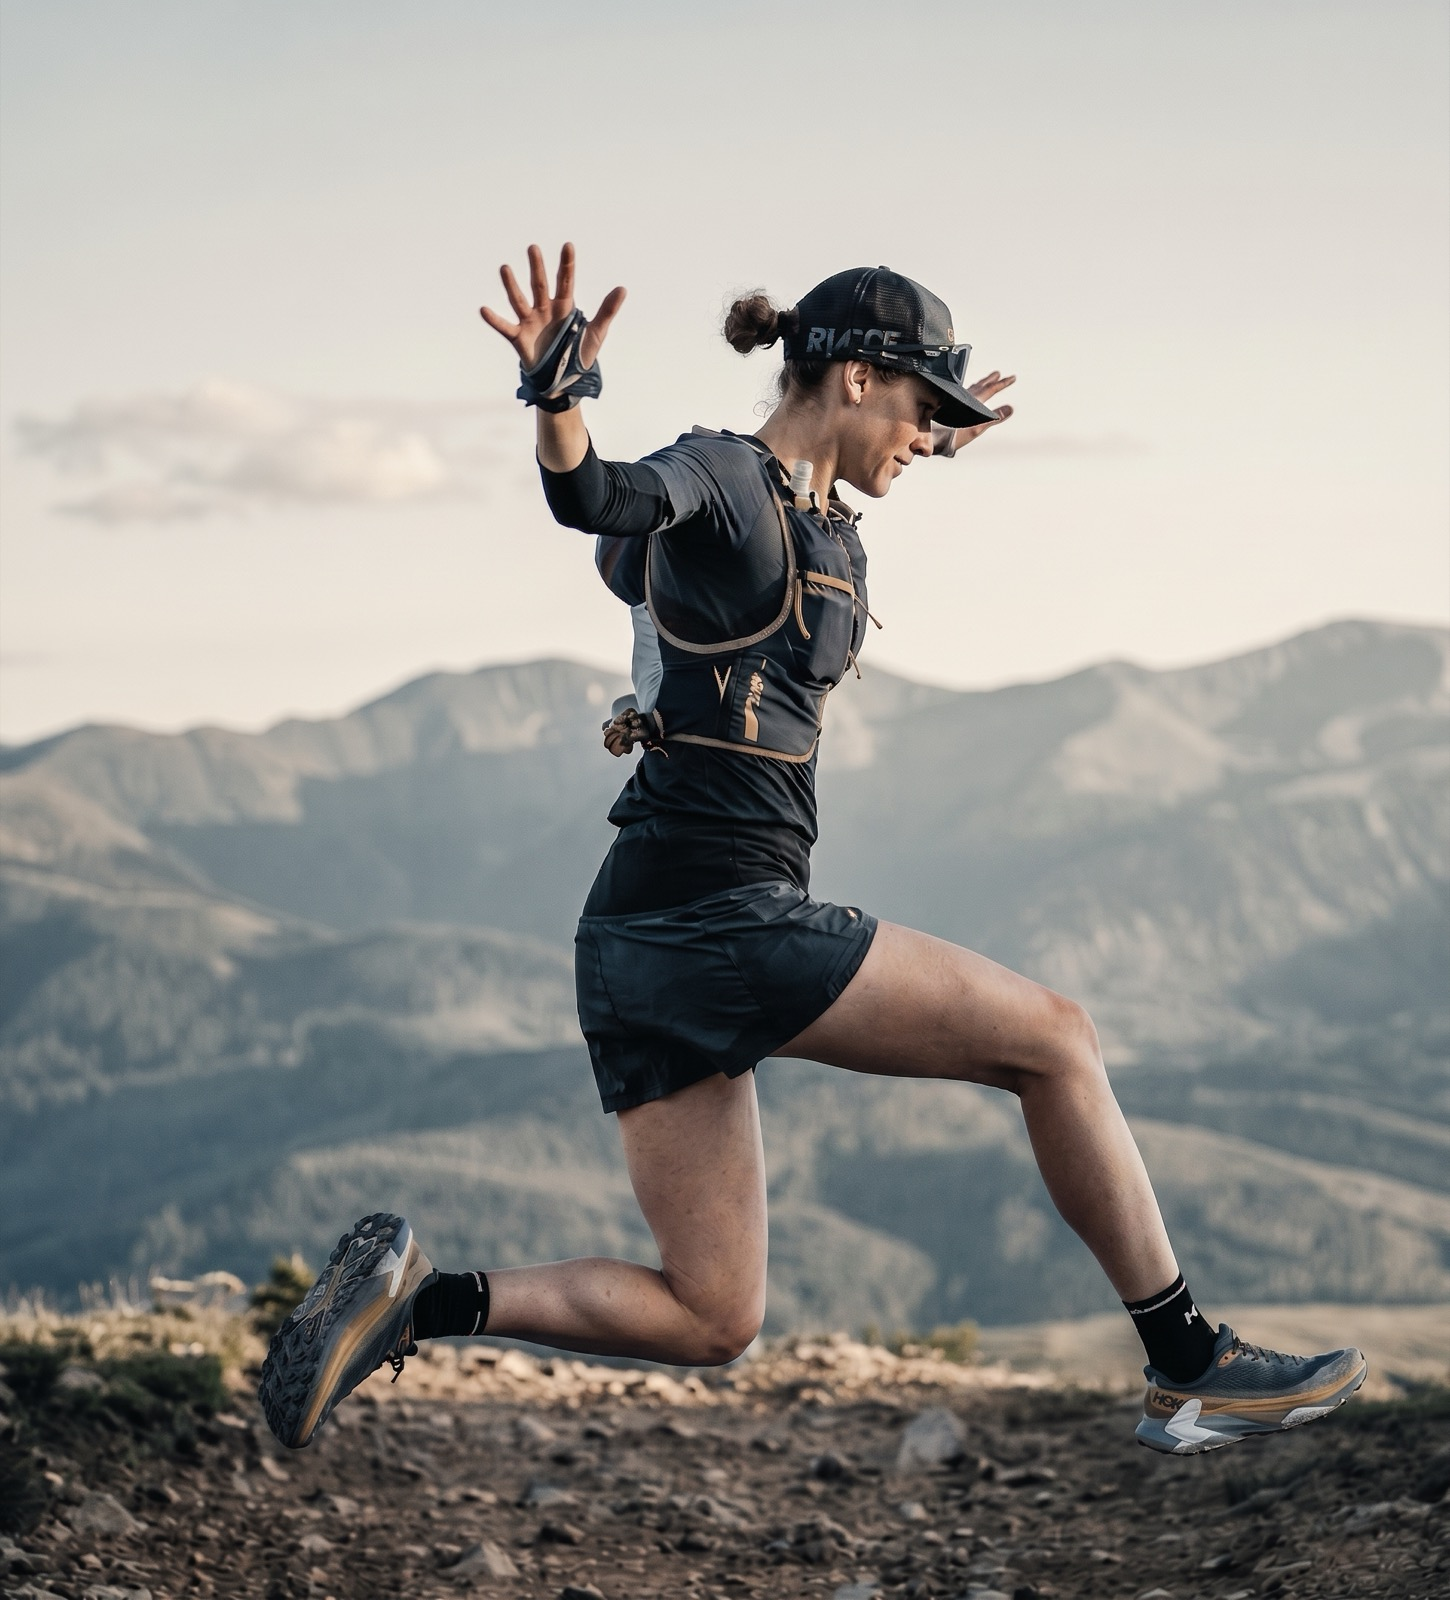
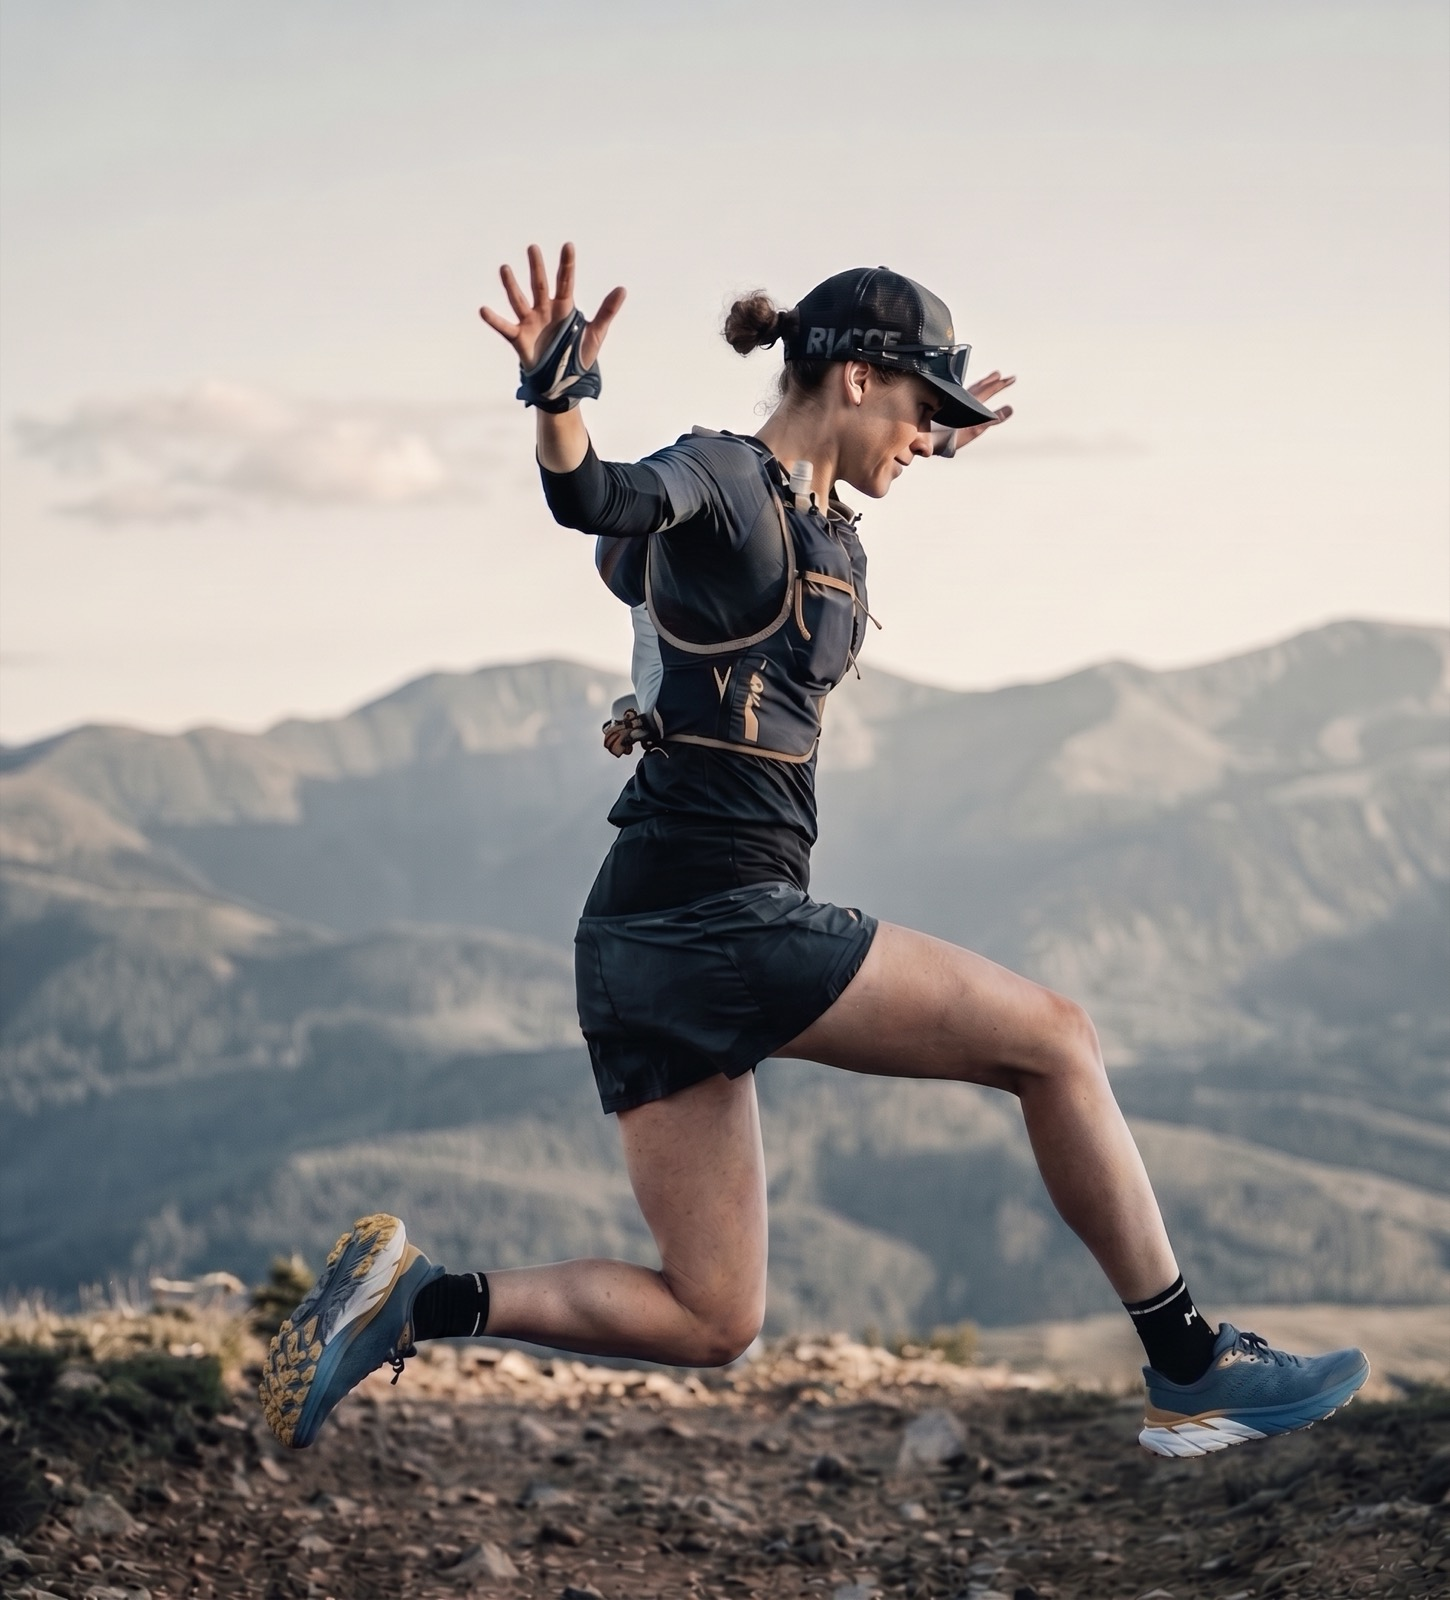
Add testimonial_maksym.jpeg

diff --git a/src/components/TestimonialsSection.js b/src/components/TestimonialsSection.js
@@ -1,6 +1,9 @@
+import { useCallback, useEffect, useState } from "react";
 import styled from "styled-components";
 import { Col, Row, Typography } from "antd";
 import Testimonial from "./Testimonial";
+
+const AUTO_ADVANCE_MS = 7000;
 
 const StyledSection = styled.div`
   width: 100%;
@@ -14,6 +17,35 @@ const StyledTitle = styled(Typography.Title)`
   &&& {
     color: #fff;
     margin: 0 0 1.5em 0;
+  }
+`;
+
+const StyledCarousel = styled.div`
+  display: flex;
+  align-items: center;
+  gap: 1em;
+`;
+
+const StyledTestimonialWrapper = styled.div`
+  flex: 1;
+  min-width: 0;
+`;
+
+const StyledArrowButton = styled.button`
+  flex: 0 0 auto;
+  width: 2.5em;
+  height: 2.5em;
+  border-radius: 50%;
+  border: 1px solid rgba(255, 255, 255, 0.4);
+  background: transparent;
+  color: #fff;
+  font-size: 1.4em;
+  line-height: 1;
+  cursor: pointer;
+  transition: background 0.2s ease-out;
+
+  &:hover {
+    background: rgba(255, 255, 255, 0.1);
   }
 `;
 
@@ -36,19 +68,70 @@ const testimonials = [
     role: "СЕО продакшн студії",
     company: "Paragon Progency",
   },
+  {
+    photo: "./testimonial_maksym.jpeg",
+    quote: (
+      <>
+        Тренування з Поліною — це найкраще рішення у моєму біговому шляху!
+        Завдяки грамотному підходу та продуманій системі ми не лише покращили
+        мої фізичні показники, а й повністю змінили підхід до трейлового бігу.
+        Поліна вчить відчувати своє тіло, правильно розподіляти сили на тривалих
+        дистанціях і, головне, отримувати задоволення від кожного кілометра.
+        Щиро рекомендую всім, хто мріє про гори та нові вершини!
+      </>
+    ),
+    name: "Maksym",
+    role: "Software Architect",
+    company: "DataArt",
+  },
 ];
 
-const TestimonialsSection = () => (
-  <StyledSection>
-    <Row justify="center">
-      <Col xs={24} xl={20} xxl={16}>
-        <StyledTitle level={2}>Відгуки моїх студентів</StyledTitle>
-        {testimonials.map((testimonial) => (
-          <Testimonial key={testimonial.name} {...testimonial} />
-        ))}
-      </Col>
-    </Row>
-  </StyledSection>
-);
+const TestimonialsSection = () => {
+  const [index, setIndex] = useState(0);
+
+  const goTo = useCallback((delta) => {
+    setIndex(
+      (current) => (current + delta + testimonials.length) % testimonials.length
+    );
+  }, []);
+
+  useEffect(() => {
+    const timer = setInterval(() => {
+      setIndex((current) => (current + 1) % testimonials.length);
+    }, AUTO_ADVANCE_MS);
+    return () => clearInterval(timer);
+  }, [index]);
+
+  const testimonial = testimonials[index];
+
+  return (
+    <StyledSection>
+      <Row justify="center">
+        <Col xs={24} xl={20} xxl={16}>
+          <StyledTitle level={2}>Відгуки моїх студентів</StyledTitle>
+          <StyledCarousel>
+            <StyledArrowButton
+              type="button"
+              aria-label="Попередній відгук"
+              onClick={() => goTo(-1)}
+            >
+              ‹
+            </StyledArrowButton>
+            <StyledTestimonialWrapper>
+              <Testimonial {...testimonial} />
+            </StyledTestimonialWrapper>
+            <StyledArrowButton
+              type="button"
+              aria-label="Наступний відгук"
+              onClick={() => goTo(1)}
+            >
+              ›
+            </StyledArrowButton>
+          </StyledCarousel>
+        </Col>
+      </Row>
+    </StyledSection>
+  );
+};
 
 export default TestimonialsSection;
